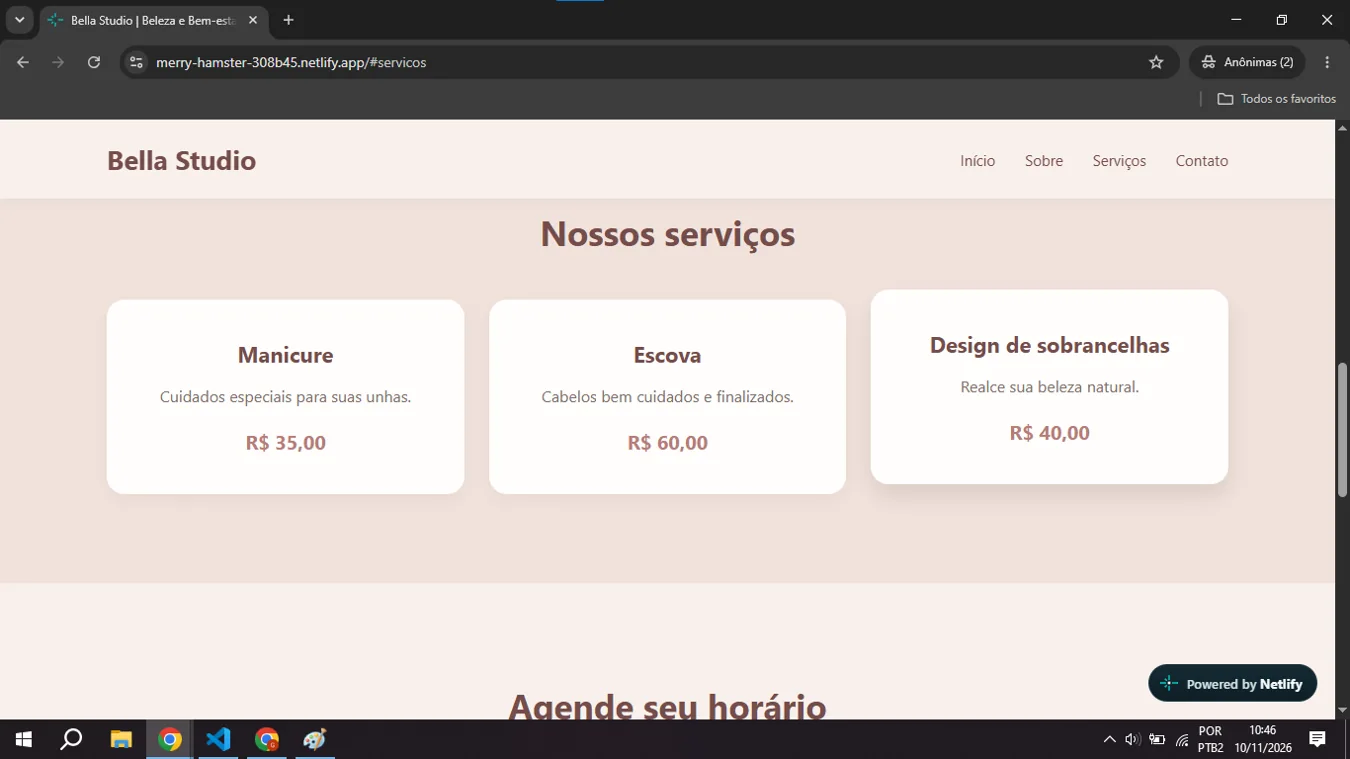
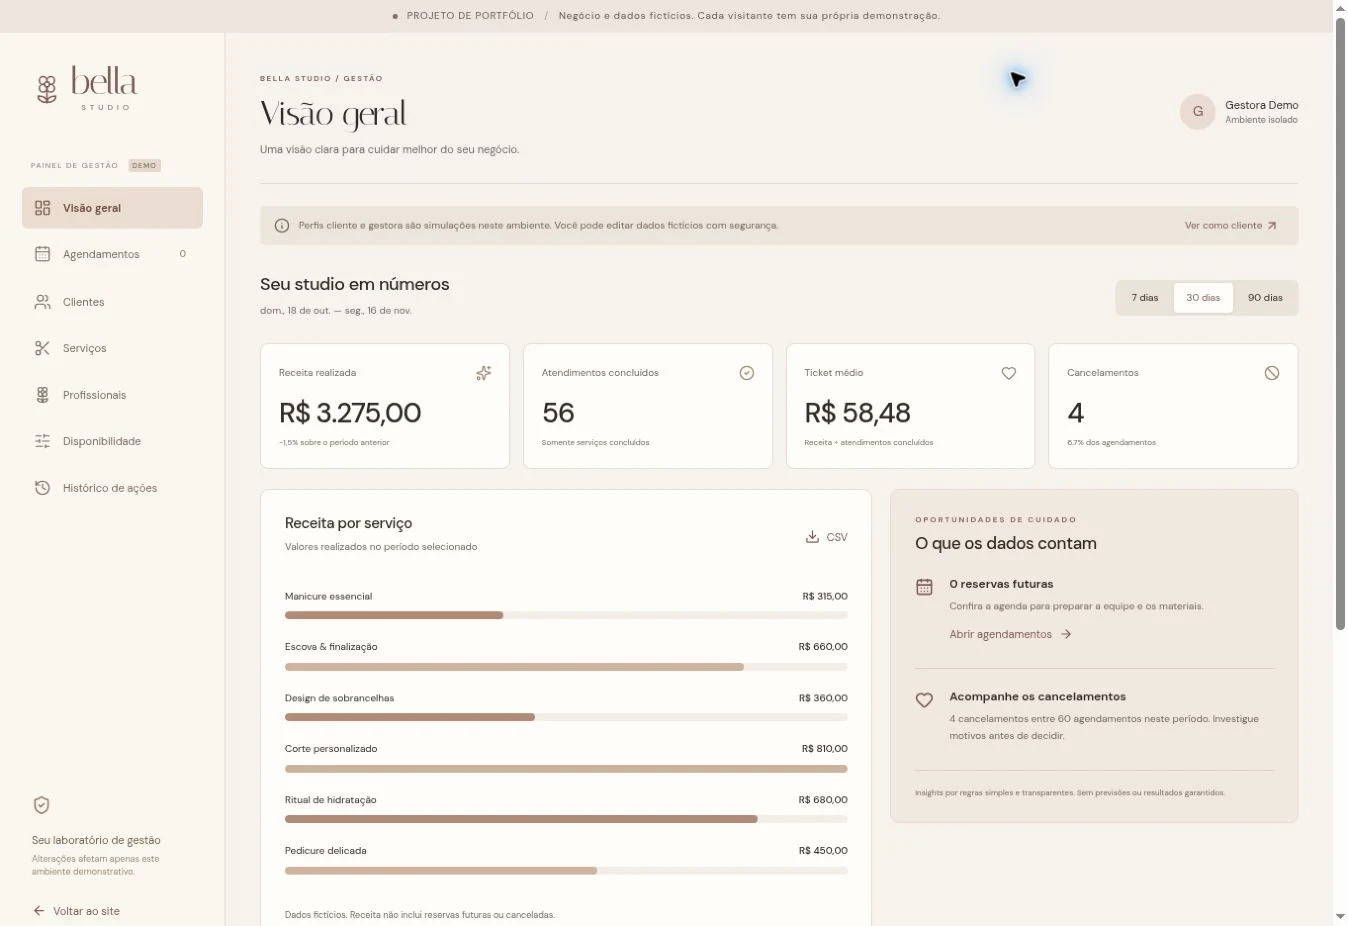
Atualiza Bella Studio no portfólio

diff --git a/app.js b/app.js
@@ -1,10 +1,10 @@
 'use strict';
 const PROJECTS = [
- {id:'shopcore',name:'ShopCore Ultimate',category:'sistemas',type:'E-commerce com painel administrativo',description:'Loja virtual demonstrativa com catálogo e carrinho interativos, autenticação de administrador, gestão de preços e estoque e integração com Supabase. Não processa pagamentos reais.',technologies:['React','TypeScript','Vite','Supabase','RLS','Git'],features:['Catálogo de oito produtos demonstrativos','Login administrativo com autenticação','Gerenciamento de preço, estoque e visibilidade','Persistência no Supabase e políticas RLS','15 testes automatizados aprovados e deploy em produção'],images:['shopcore-1.webp','shopcore-2.webp','shopcore-3.webp'],url:'https://shopcore-ultimate.vercel.app/'},
+ {id:'shopcore',name:'ShopCore V6',category:'sistemas',type:'E-commerce com painel administrativo',description:'Loja virtual demonstrativa com catálogo e carrinho interativos, autenticação de administrador, gestão de preços e estoque e integração com Supabase. Não processa pagamentos reais.',technologies:['React','TypeScript','Vite','Supabase','RLS','Git'],features:['Catálogo de oito produtos demonstrativos','Login administrativo com autenticação','Gerenciamento de preço, estoque e visibilidade','Persistência no Supabase e políticas RLS','15 testes automatizados aprovados e deploy em produção'],images:['shopcore-1.webp','shopcore-2.webp','shopcore-3.webp'],url:'https://shopcore-ultimate.vercel.app/'},
  {id:'nexora',name:'Nexora',category:'sistemas',type:'Sistema web',description:'Sistema demonstrativo de gestão empresarial com autenticação, cadastro de clientes, financeiro, tarefas e relatórios. Uma experiência organizada para explorar rotinas administrativas.',technologies:['HTML','CSS','JavaScript','Supabase','SQL','RLS'],features:['Autenticação de usuários com Supabase','Cadastro e organização de clientes','Controle de entradas e saídas','Gestão de tarefas e relatórios','Políticas de acesso por usuário no banco'],images:['nexora-1.webp','nexora-2.webp','nexora-3.webp','nexora-4.webp'],url:'https://nexora-zeta-rouge.vercel.app/'},
  {id:'nexdata',name:'NexData',category:'dados',type:'Dashboard e planilhas',description:'Plataforma demonstrativa para importar, validar e visualizar informações de planilhas CSV e Excel diretamente no navegador, com painéis de análise financeira, estoque e administração.',technologies:['HTML','CSS','JavaScript','CSV','Excel','Gráficos'],features:['Importação de arquivos CSV e Excel','Dashboards financeiros e de estoque','Validação e organização de informações','Gráficos e indicadores interativos','Exportação de dados; processamento local no navegador'],images:['nexdata-1.webp','nexdata-2.webp','nexdata-3.webp','nexdata-4.webp'],url:'https://nexdata-seven.vercel.app/'},
  {id:'sabor',name:'Sabor da Praça',category:'sites',type:'Site comercial',description:'Site demonstrativo de restaurante com identidade visual própria, apresentação de cardápio e navegação responsiva. Projeto voltado à divulgação digital de um negócio local.',technologies:['HTML5','CSS3','JavaScript','Responsividade'],features:['Página inicial com apresentação do restaurante','Cardápio visual com informações de produtos','Navegação por seções','Layout adaptado a diferentes telas'],images:['sabor-1.webp','sabor-2.webp','sabor-3.webp'],url:'https://loquacious-cendol-c3884f.netlify.app/'},
- {id:'bella',name:'Bella Studio',category:'sites',type:'Site comercial',description:'Website demonstrativo para um estúdio de beleza, com catálogo de serviços, visual elegante e contato facilitado por WhatsApp com mensagem pré-preenchida.',technologies:['HTML5','CSS3','JavaScript','WhatsApp'],features:['Apresentação de serviços','Visual adaptado para celular','Chamada de ação para contato','Mensagem de atendimento via WhatsApp, sem agenda com banco de dados'],images:['bella-1.webp','bella-2.webp','bella-3.webp'],url:'https://merry-hamster-308b45.netlify.app/'}
+ {id:'bella',"name":"Bella Studio","category":"sites","type":"Site com agendamento e gestão","description":"Salão fictício com agendamento por serviço e profissional, área do cliente e painel de gestão. Interface responsiva com fotos ilustrativas, personagens e dados persistidos em ambientes demonstrativos separados.","technologies":["React","TypeScript","Cloudflare D1","SQLite","Vinext","Drizzle"],"features":["Reserva por serviço, profissional, data e horário disponível","Personagens fictícias com avatar e apresentação","Remarcação e cancelamento com regras de antecedência","Gestão de serviços, profissionais e bloqueios da agenda","Indicadores calculados sobre os atendimentos e histórico de ações","Exportações CSV e calendário; banco persistente D1","21 testes automatizados e 10 verificações HTTP na prévia","Sem cobranças reais; perfis cliente e gestora demonstrativos"],"images":["bella-1.webp","bella-2.webp","bella-3.webp","bella-4.webp"],"url":"https://merry-hamster-308b45.netlify.app/"}
 ];
 
 const PROJECT_EXTRA = {
@@ -12,14 +12,14 @@ const PROJECT_EXTRA = {
  nexora:{challenge:['Organizar informações de gestão em uma interface demonstrativa.','Organize management information in a demonstration interface.'],solution:['Painéis, cadastro, tarefas e autenticação com Supabase.','Dashboards, records, tasks and Supabase authentication.'],validation:['Projeto demonstrativo publicado; funcionalidades descritas sem métricas comerciais.','Published demo; features described without claiming commercial metrics.']},
  nexdata:{challenge:['Tornar planilhas mais fáceis de explorar no navegador.','Make spreadsheets easier to explore in the browser.'],solution:['Importação e visualização de CSV/Excel, indicadores e gráficos.','CSV/Excel importing and visualization with metrics and charts.'],validation:['Demonstração local de tratamento de dados; sem integração financeira real.','Local data-processing demonstration; no real financial integration.']},
  sabor:{challenge:['Apresentar um restaurante fictício com clareza e identidade própria.','Present a fictional restaurant with clarity and its own visual identity.'],solution:['Cardápio visual, seções navegáveis e layout responsivo.','Visual menu, navigable sections and responsive layout.'],validation:['Projeto autoral e demonstrativo, sem pedidos comerciais reais.','Independent demo without real commercial orders.']},
- bella:{challenge:['Apresentar os serviços de um estúdio fictício de forma elegante.','Present fictional studio services elegantly.'],solution:['Site adaptável a celular com contato por WhatsApp.','Mobile-friendly site with WhatsApp contact.'],validation:['Atalho de contato; sem sistema real de reservas.','Contact shortcut; no real booking system.']}
+ bella:{challenge:['Evoluir um site de beleza para demonstrar atendimento e gestão conectados.','Evolve a beauty website into connected booking and management experiences.'],solution:['Agendamento com regras no servidor, área do cliente, gestão, indicadores e personagens fictícias.','Server-validated booking, customer area, management, metrics and fictional characters.'],validation:['21 testes automatizados e 10 verificações HTTP na prévia. Sem pagamentos reais; papéis demonstrativos.','21 automated tests and 10 HTTP checks in preview. No real payments; demonstration roles.']}
 };
 const PROJECT_EN={
  shopcore:{type:'E-commerce with admin dashboard',description:'Demonstration store featuring an interactive catalog and cart, admin login, pricing and inventory management, and Supabase integration. No real payments.',features:['Eight demo products','Authenticated administrator login','Price, inventory and visibility management','Supabase persistence and RLS policies','15 automated tests passed and production deployment']},
  nexora:{type:'Web management system',description:'Demonstration business management system featuring authentication, customer records, finances, tasks and reports.',features:['Supabase user authentication','Customer records and organization','Income and expenses overview','Tasks and reports','User-scoped database policies']},
  nexdata:{type:'Dashboard & spreadsheets',description:'Browser-based demonstration platform for importing, validating and visualizing CSV and Excel spreadsheets.',features:['CSV and Excel imports','Financial and inventory dashboards','Data validation and organization','Interactive charts and indicators','Export and local browser processing']},
  sabor:{type:'Business website',description:'Demonstration restaurant website with custom visual identity, menu presentation and responsive navigation.',features:['Restaurant landing section','Visual menu and product information','Section navigation','Responsive layout']},
- bella:{type:'Business website',description:'Demonstration beauty studio website featuring services, elegant visuals and a WhatsApp contact shortcut.',features:['Service presentation','Mobile-friendly design','Contact call to action','WhatsApp prefilled message; no real booking system']}
+ bella:{type:'Website with booking and management',description:'Fictional beauty studio with service and professional booking, a customer area and a management dashboard. Responsive design, illustrative photos, characters and persistent data in separate demo environments.',features:['Book an available service, professional, date and time','Fictional professionals with illustrated avatars and introductions','Rescheduling and cancellation with advance-notice rules','Manage services, professionals and blocked time','Metrics calculated from appointments and an activity history','CSV/calendar exports and persistent D1 storage','21 automated tests and 10 HTTP checks in preview','No real charges; customer and manager are demo perspectives']}
 };
 const localizedProject=p=>window.GL_LANG==='en'?{...p,...PROJECT_EN[p.id]}:p;
 const projectText=(pt,en)=>window.GL_LANG==='en'?en:pt;
@@ -135,7 +135,7 @@ const observer=('IntersectionObserver'in window)?new IntersectionObserver(entrie
   const commands={
     help:'COMANDOS DISPONÍVEIS\nhelp       mostra esta lista\nabout      sobre Gabriel\nprojects   lista projetos\nnexora     abre estudo de caso Nexora\nshopcore   abre estudo de caso ShopCore\nnexdata    abre estudo de caso NexData\nsabor      abre estudo de caso Sabor da Praça\nbella      abre estudo de caso Bella Studio\nskills     habilidades e tecnologias\ncontact    dados de contato\nclear      limpa este terminal\nmatrix     surpresa visual\nexit       fecha o terminal',
     about:'Gabriel Lima — estudante de Análise e Desenvolvimento de Sistemas na Estácio. Desenvolvimento web, interfaces, dashboards e sistemas autorais demonstrativos.',
-    projects:'[01] ShopCore Ultimate — e-commerce com Supabase\n[02] Nexora — gestão web com Supabase\n[03] NexData — análise de planilhas no navegador\n[04] Sabor da Praça — site para restaurante\n[05] Bella Studio — site de serviços e WhatsApp\n\nDigite o nome do projeto para abrir detalhes.',
+    projects:'[01] ShopCore V6 — e-commerce com Supabase\n[02] Nexora — gestão web com Supabase\n[03] NexData — análise de planilhas no navegador\n[04] Sabor da Praça — site para restaurante\n[05] Bella Studio — agendamento e gestão demonstrativos\n\nDigite o nome do projeto para abrir detalhes.',
     skills:'HTML5 / CSS3 / JavaScript / Supabase / SQL / CSV / Excel / Responsividade / Interfaces / Dashboards',
     contact:'WhatsApp: wa.me/5531972120246\nE-mail: gf.dlimaa25@gmail.com\nGitHub: github.com/GFDLima\nLinkedIn: gabriel-lima-565636184/\n\nUse a seção de contato para enviar uma mensagem.'
   };
@@ -155,7 +155,7 @@ const observer=('IntersectionObserver'in window)?new IntersectionObserver(entrie
       if(motionEnabled){document.body.classList.add('neon-flash');setTimeout(()=>document.body.classList.remove('neon-flash'),650)}
       return;
     }
-    const translations=window.GL_LANG==='en'?{help:'AVAILABLE COMMANDS\nhelp — this list\nabout — about Gabriel\nprojects — list projects\nshopcore / nexora / nexdata / sabor / bella — open a case study\nskills — technologies\ncontact — contact details\nclear — clear terminal\nmatrix — visual surprise\nexit — close terminal',about:'Gabriel Lima — Systems Analysis and Development student at Estácio, building demonstration web applications.',projects:'[01] ShopCore — e-commerce with Supabase\n[02] Nexora — business management\n[03] NexData — spreadsheet dashboards\n[04] Sabor da Praça — restaurant website\n[05] Bella Studio — service website',skills:'HTML5 / CSS3 / JavaScript / React / TypeScript / Supabase / SQL / CSV / Excel / Git',contact:'WhatsApp: wa.me/5531972120246\nEmail: gf.dlimaa25@gmail.com\nGitHub: github.com/GFDLima\nLinkedIn: gabriel-lima-565636184/'}:commands;appendLine(translations[typed]||projectText('Comando desconhecido. Digite help para ver as opções.','Unknown command. Type help for options.'),translations[typed]?'answer':'error');
+    const translations=window.GL_LANG==='en'?{help:'AVAILABLE COMMANDS\nhelp — this list\nabout — about Gabriel\nprojects — list projects\nshopcore / nexora / nexdata / sabor / bella — open a case study\nskills — technologies\ncontact — contact details\nclear — clear terminal\nmatrix — visual surprise\nexit — close terminal',about:'Gabriel Lima — Systems Analysis and Development student at Estácio, building demonstration web applications.',projects:'[01] ShopCore — e-commerce with Supabase\n[02] Nexora — business management\n[03] NexData — spreadsheet dashboards\n[04] Sabor da Praça — restaurant website\n[05] Bella Studio — booking and management demo',skills:'HTML5 / CSS3 / JavaScript / React / TypeScript / Supabase / SQL / CSV / Excel / Git',contact:'WhatsApp: wa.me/5531972120246\nEmail: gf.dlimaa25@gmail.com\nGitHub: github.com/GFDLima\nLinkedIn: gabriel-lima-565636184/'}:commands;appendLine(translations[typed]||projectText('Comando desconhecido. Digite help para ver as opções.','Unknown command. Type help for options.'),translations[typed]?'answer':'error');
   }
   function openTerminal(){
     if(dialog.open)dialog.close();
